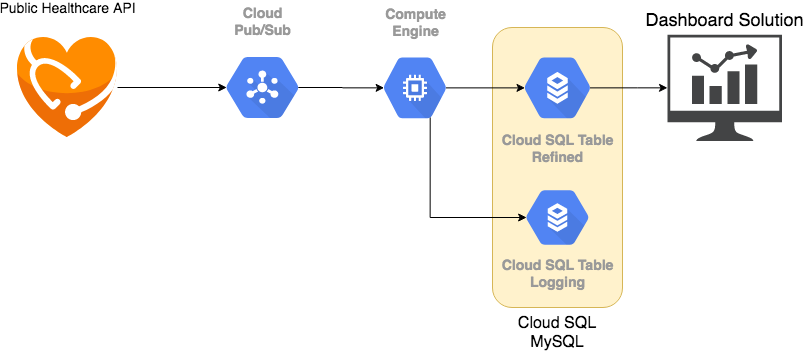
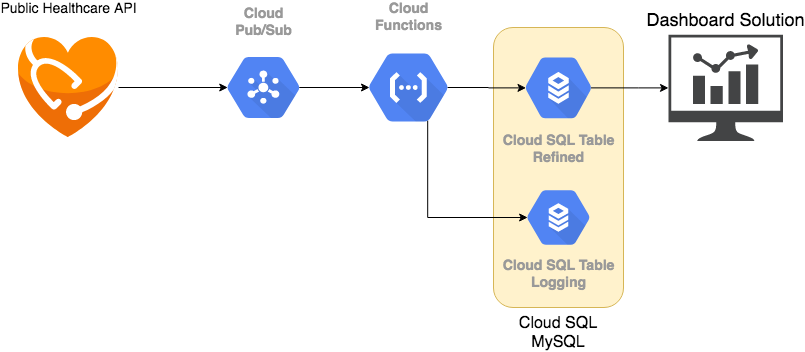
:memo: ::building_construction: update readme and architecture

diff --git a/README.md b/README.md
@@ -1,2 +1,67 @@
 # gcp-usa-census-healthcare
-repository to test GCP features. 
+
+Repository to test GCP features using healthcare public dataset from USA goverment.
+
+## Getting Started
+
+[wip]
+
+### Architecture
+
+![architecture_image](./docs/arch_gcp-usa-census-healthcare.png)
+
+### Prerequisites
+
+[wip]
+
+```
+Access to the GCP;
+```
+
+### Installing
+
+[wip]
+
+## Running the tests
+
+[wip]
+
+### Break down into end to end tests
+
+[wip]
+
+### And coding style tests
+
+[wip]
+
+## Deployment
+
+[wip]
+
+## Built With
+
+* [Google Cloud Platform](https://cloud.google.com/) - Is a suite of cloud computing services that runs on the same infrastructure that Google uses internally for its end-user products,
+* [Data Pub/Sub](https://cloud.google.com/pubsub/) - Messaging and ingestion for event-driven systems and streaming analytics.
+* [Cloud Function](https://cloud.google.com/functions) -  Scalable pay-as-you-go functions as a service (FaaS) to run your code with zero server management. 
+* [Cloud SQL](https://cloud.google.com/sql/) - Fully managed relational database service for MySQL, PostgreSQL, and SQL Server.
+* (optional) [Dataflow](https://cloud.google.com/dataflow) - Unified stream and batch data processing that's serverless, fast, and cost-effective.
+
+## Contributing
+[wip]
+
+## Versioning
+
+[wip]
+
+## Authors
+
+* **Lucian Lorens** - *Initial work* - [lucianlorens](https://github.com/lucianlorens)
+
+
+## License
+
+:construction: [wip] :construction:
+
+## Acknowledgments
+
+[wip]
